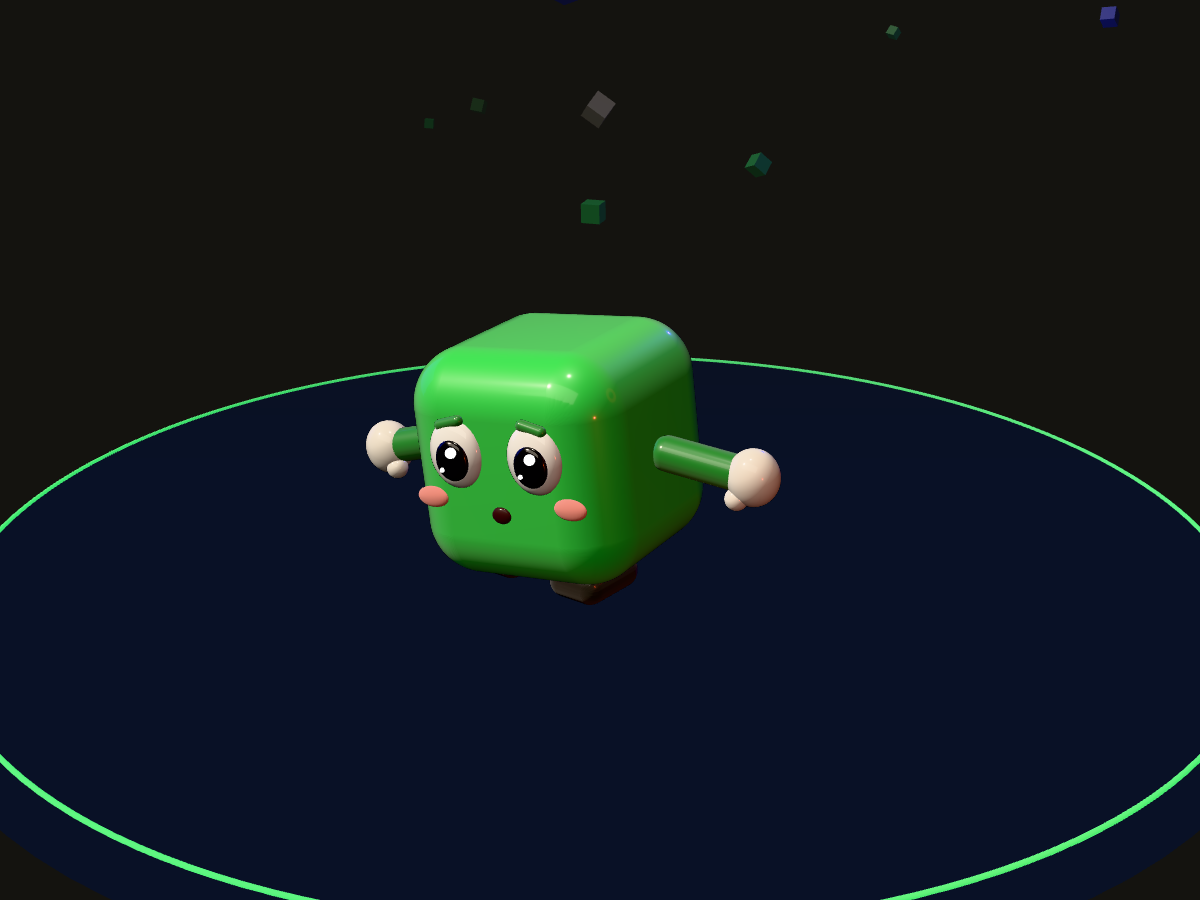
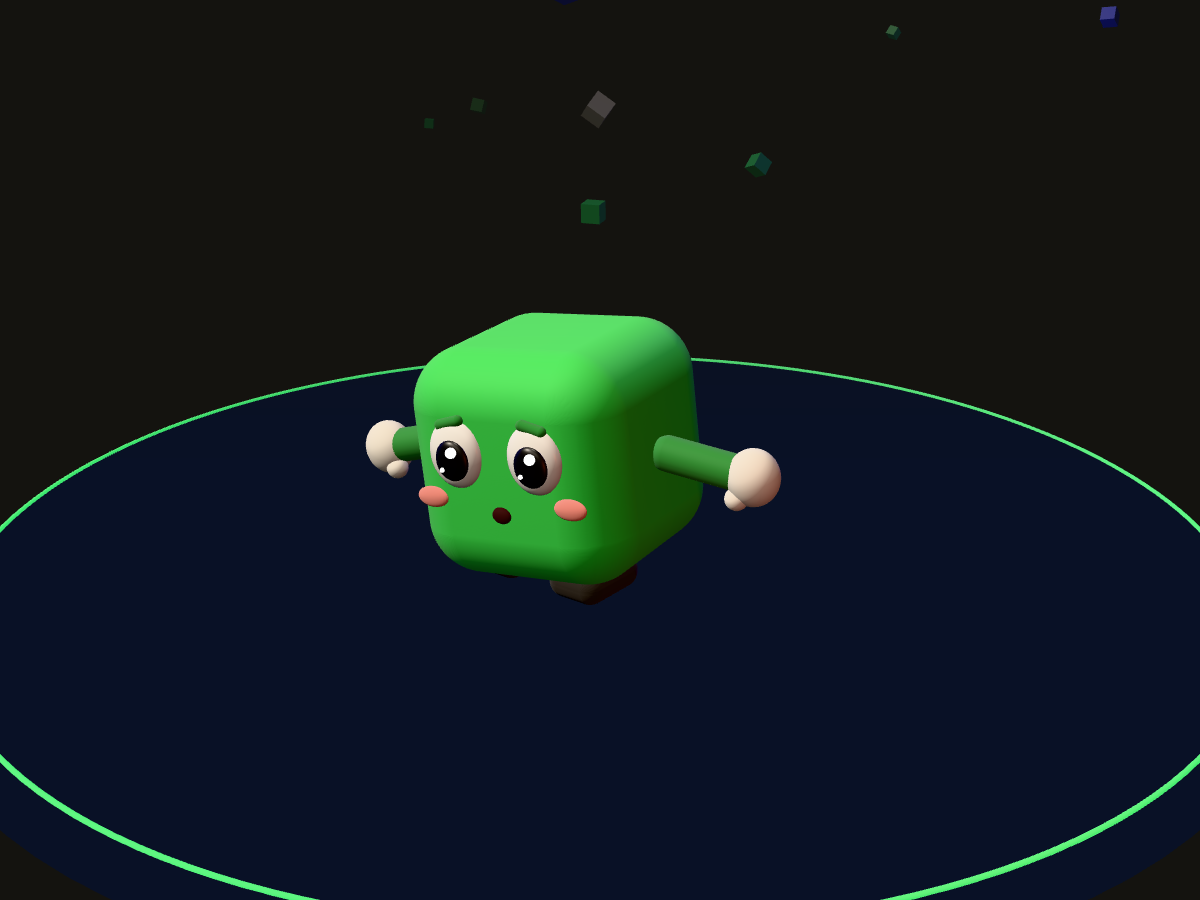
fix(video): matte characters, readable Consistent costume, jointed ant legs
The clear-coated vinyl read as glass. Toon is now matte: high roughness,
almost no clear coat, muted environment reflections and a faint seeded
grain as a bump map, like a real toy photographed in a studio. Eyes and
noses keep a soft wet sheen instead of a mirror finish.

The Consistent costume covered Cell's face: its ribbon ran up past the
eyes and the sweatband sat over the brows. The band moves to the
forehead and the medal hangs on a short V of ribbon below the mouth, in
gold metal. The ant's straight stick legs become jointed limbs (thigh,
knee, shin) and its antennae bend once.

All 28 baked PNGs re-rendered one at a time.

Refs #9

Changed region(s): [[0.3392, 0.3422, 0.555, 0.4667], [0.555, 0.4978, 0.6167, 0.5289]]

diff --git a/packages/video/src/three/toon.tsx b/packages/video/src/three/toon.tsx
@@ -1,32 +1,76 @@
+import { CanvasTexture, RepeatWrapping, type Texture } from "three";
+
 /*
- * Paint for characters and costumes. The maintainer rejected a cel-shaded cartoon look
- * (2026-11-04) and then the first glossy pass as looking cheap: faces were unlit stickers and the
- * plastic had nothing to reflect. Everything here is a lit physical material, tuned to read as a
- * soft vinyl collectible under the studio rig in World.tsx (`StudioLights`).
+ * Paint for characters and costumes. History, all rejected by the maintainer on 2026-11-04: a
+ * cel-shaded cartoon look; a lacquer finish whose faces were unlit stickers; then a clear-coated
+ * vinyl that read as glass. What real toys look like up close is matte: light scatters instead of
+ * mirroring, and the surface has a fine grain. So: high roughness, almost no clear coat, muted
+ * environment reflections, and a faint procedural bump for the grain.
  * `Toon` and `Ink` keep their names so the character files stay unchanged; `Ink` draws nothing.
  */
 
-/** Soft vinyl: a satin base under a thin clear coat, with a little sheen on the edges. */
+let grain: Texture | null = null;
+
+/**
+ * A tiling grey noise used as a bump map. Seeded, not Math.random, so every render of a frame is
+ * identical (AGENTS.md rule 3). Created once, on first use, because it needs a canvas.
+ */
+function grainTexture(): Texture | null {
+  if (grain || typeof document === "undefined") return grain;
+  const size = 256;
+  const canvas = document.createElement("canvas");
+  canvas.width = size;
+  canvas.height = size;
+  const ctx = canvas.getContext("2d");
+  if (!ctx) return null;
+  const image = ctx.createImageData(size, size);
+  let seed = 1337;
+  for (let i = 0; i < size * size; i++) {
+    seed = (seed * 1664525 + 1013904223) >>> 0;
+    const v = 118 + ((seed >>> 24) % 20);
+    image.data[i * 4] = v;
+    image.data[i * 4 + 1] = v;
+    image.data[i * 4 + 2] = v;
+    image.data[i * 4 + 3] = 255;
+  }
+  ctx.putImageData(image, 0, 0);
+  grain = new CanvasTexture(canvas);
+  grain.wrapS = RepeatWrapping;
+  grain.wrapT = RepeatWrapping;
+  grain.repeat.set(4, 4);
+  return grain;
+}
+
+/** Matte vinyl: soft, diffuse, with a fine grain and only a hint of sheen at grazing angles. */
 export function Toon({ color, emissive }: { color: string; emissive?: string }) {
   return (
     <meshPhysicalMaterial
       color={color}
-      roughness={0.45}
-      clearcoat={1}
-      clearcoatRoughness={0.1}
-      sheen={0.35}
-      sheenRoughness={0.5}
+      roughness={0.68}
+      clearcoat={0.08}
+      clearcoatRoughness={0.6}
+      sheen={0.18}
+      sheenRoughness={0.8}
       sheenColor="#ffffff"
+      envMapIntensity={0.55}
+      bumpMap={grainTexture()}
+      bumpScale={0.35}
       emissive={emissive ?? "#000000"}
-      emissiveIntensity={emissive ? 0.4 : 0}
+      emissiveIntensity={emissive ? 0.15 : 0}
     />
   );
 }
 
-/** Wet-looking surfaces: eye whites, noses, pupils. The studio softboxes give the catchlights. */
+/** Eyes and noses: smoother than the body, a soft wet sheen rather than a mirror. */
 export function Gloss({ color }: { color: string }) {
   return (
-    <meshPhysicalMaterial color={color} roughness={0.08} clearcoat={1} clearcoatRoughness={0} />
+    <meshPhysicalMaterial
+      color={color}
+      roughness={0.28}
+      clearcoat={0.35}
+      clearcoatRoughness={0.3}
+      envMapIntensity={0.6}
+    />
   );
 }
 
@@ -35,15 +79,23 @@ export function Sparkle() {
   return <meshBasicMaterial color="#ffffff" toneMapped={false} />;
 }
 
-/** Blush: soft and matte, with a light sheen like powder. */
+/** Blush: powdery and matte. */
 export function Blush({ color = "#ff9a8f" }: { color?: string }) {
   // Opaque: a see-through pink over green mixes to brown.
-  return <meshPhysicalMaterial color={color} roughness={0.75} sheen={0.6} sheenColor="#ffd6d0" />;
+  return (
+    <meshPhysicalMaterial
+      color={color}
+      roughness={0.9}
+      sheen={0.4}
+      sheenColor="#ffd6d0"
+      envMapIntensity={0.4}
+    />
+  );
 }
 
-/** Inside of a mouth: deep and warm rather than flat black. */
+/** Inside of a mouth: deep, warm and matte. */
 export function MouthPaint() {
-  return <meshPhysicalMaterial color="#3a0f14" roughness={0.55} clearcoat={0.4} />;
+  return <meshPhysicalMaterial color="#3a0f14" roughness={0.75} envMapIntensity={0.4} />;
 }
 
 /** Formerly the ink outline of the cartoon look; kept as a no-op so call sites stay valid. */

diff --git a/packages/video/src/three/animals.tsx b/packages/video/src/three/animals.tsx
@@ -1,6 +1,7 @@
 import { RoundedBox } from "@react-three/drei";
 import type { ArchetypeId } from "@wyg/schema";
 import type { ReactNode } from "react";
+import { Quaternion, Vector3 } from "three";
 import { HardHat } from "./outfits";
 import { C } from "./palette";
 import { Blush, Gloss, Ink, Sparkle, Toon } from "./toon";
@@ -145,9 +146,36 @@ export function Beaver({ t = 0, ...place }: Placement) {
   );
 }
 
+/** A capsule from one point to another: limbs that bend at a joint instead of straight sticks. */
+function Limb({
+  from,
+  to,
+  radius,
+  color,
+}: {
+  from: [number, number, number];
+  to: [number, number, number];
+  radius: number;
+  color: string;
+}) {
+  const a = new Vector3(...from);
+  const b = new Vector3(...to);
+  const dir = b.clone().sub(a);
+  const length = dir.length();
+  const mid = a.clone().add(b).multiplyScalar(0.5);
+  const quaternion = new Quaternion().setFromUnitVectors(new Vector3(0, 1, 0), dir.normalize());
+  return (
+    <mesh position={mid} quaternion={quaternion}>
+      <capsuleGeometry args={[radius, Math.max(length - radius * 2, 0.001), 8, 16]} />
+      <Toon color={color} />
+    </mesh>
+  );
+}
+
 export function Ant({ t = 0, ...place }: Placement) {
-  const step = Math.sin(t * 6) * 0.25;
+  const step = Math.sin(t * 6) * 0.04;
   const red = "#B23A2A";
+  const leg = "#3a1d16";
   return (
     <Body {...place}>
       <Blob color={red} position={[0, 0.42, -0.38]} scale={[1, 0.9, 1.25]} r={0.3} />
@@ -156,21 +184,41 @@ export function Ant({ t = 0, ...place }: Placement) {
       <Eyes y={0.88} z={0.4} gap={0.11} size={0.075} />
       {[-1, 1].map((side) => (
         <group key={side}>
-          <mesh position={[side * 0.1, 1.12, 0.22]} rotation={[0.3, 0, side * -0.35]}>
-            <cylinderGeometry args={[0.018, 0.018, 0.32, 6]} />
-            <Toon color={C.ink} />
-          </mesh>
-          <Blob color={C.ink} position={[side * 0.17, 1.27, 0.28]} r={0.045} ink={0} />
-          {[-0.15, 0, 0.15].map((z, i) => (
-            <mesh
-              key={z}
-              position={[side * 0.22, 0.25, z]}
-              rotation={[i === 1 ? step : -step, 0, side * 0.6]}
-            >
-              <cylinderGeometry args={[0.022, 0.022, 0.5, 6]} />
-              <Toon color={C.ink} />
-            </mesh>
-          ))}
+          {/* Antennae bend once, like the real thing, and end in a small knob. */}
+          <Limb
+            from={[side * 0.08, 1.04, 0.22]}
+            to={[side * 0.13, 1.2, 0.26]}
+            radius={0.022}
+            color={leg}
+          />
+          <Limb
+            from={[side * 0.13, 1.2, 0.26]}
+            to={[side * 0.24, 1.27, 0.38]}
+            radius={0.02}
+            color={leg}
+          />
+          <Blob color={leg} position={[side * 0.24, 1.27, 0.38]} r={0.04} ink={0} />
+          {/* Six legs, each a thigh rising to a knee and a shin down to the ground. */}
+          {[-0.16, 0, 0.16].map((z, i) => {
+            const swing = i === 1 ? step : -step;
+            return (
+              <group key={z}>
+                <Limb
+                  from={[side * 0.1, 0.48, z * 0.6]}
+                  to={[side * 0.34, 0.52, z + swing]}
+                  radius={0.034}
+                  color={leg}
+                />
+                <Limb
+                  from={[side * 0.34, 0.52, z + swing]}
+                  to={[side * 0.56, 0.04, z * 1.7 + swing]}
+                  radius={0.03}
+                  color={leg}
+                />
+                <Blob color={leg} position={[side * 0.34, 0.52, z + swing]} r={0.04} ink={0} />
+              </group>
+            );
+          })}
         </group>
       ))}
     </Body>

diff --git a/packages/video/src/three/outfits.tsx b/packages/video/src/three/outfits.tsx
@@ -62,23 +62,28 @@ function Builder() {
 }
 
 function Consistent() {
+  // Sweatband on the forehead above the brows, and a medal on a short V of ribbon below the
+  // mouth. An earlier version ran the ribbon up the face and the band over the eyes.
   return (
     <>
-      {/* sweatband and a gold medal: the one who shows up every day */}
-      <RoundedBox args={[1.16, 0.16, 1.16]} radius={0.05} position={[0, 0.34, 0]}>
+      <RoundedBox args={[1.14, 0.12, 1.14]} radius={0.05} smoothness={6} position={[0, 0.44, 0]}>
         <Toon color={C.persimmon} />
         <Ink width={0.025} />
       </RoundedBox>
-      {[-0.16, 0.16].map((x) => (
-        <mesh key={x} position={[x * 0.6, -0.08, 0.565]} rotation={[0, 0, x > 0 ? -0.35 : 0.35]}>
-          <boxGeometry args={[0.1, 0.36, 0.02]} />
+      {[-1, 1].map((side) => (
+        <mesh key={side} position={[side * 0.17, -0.31, 0.56]} rotation={[0, 0, side * -0.85]}>
+          <boxGeometry args={[0.07, 0.26, 0.015]} />
           <Toon color={C.cobalt} />
         </mesh>
       ))}
-      <mesh position={[0, -0.3, 0.6]} rotation={[Math.PI / 2, 0, 0]}>
-        <cylinderGeometry args={[0.15, 0.15, 0.05, 32]} />
-        <Toon color="#F2C14E" emissive="#F2C14E" />
-        <Ink width={0.02} />
+      <mesh position={[0, -0.44, 0.585]} rotation={[Math.PI / 2, 0, 0]}>
+        <cylinderGeometry args={[0.1, 0.1, 0.035, 48]} />
+        <meshPhysicalMaterial
+          color="#f0c24b"
+          metalness={0.6}
+          roughness={0.32}
+          envMapIntensity={1.4}
+        />
       </mesh>
     </>
   );
